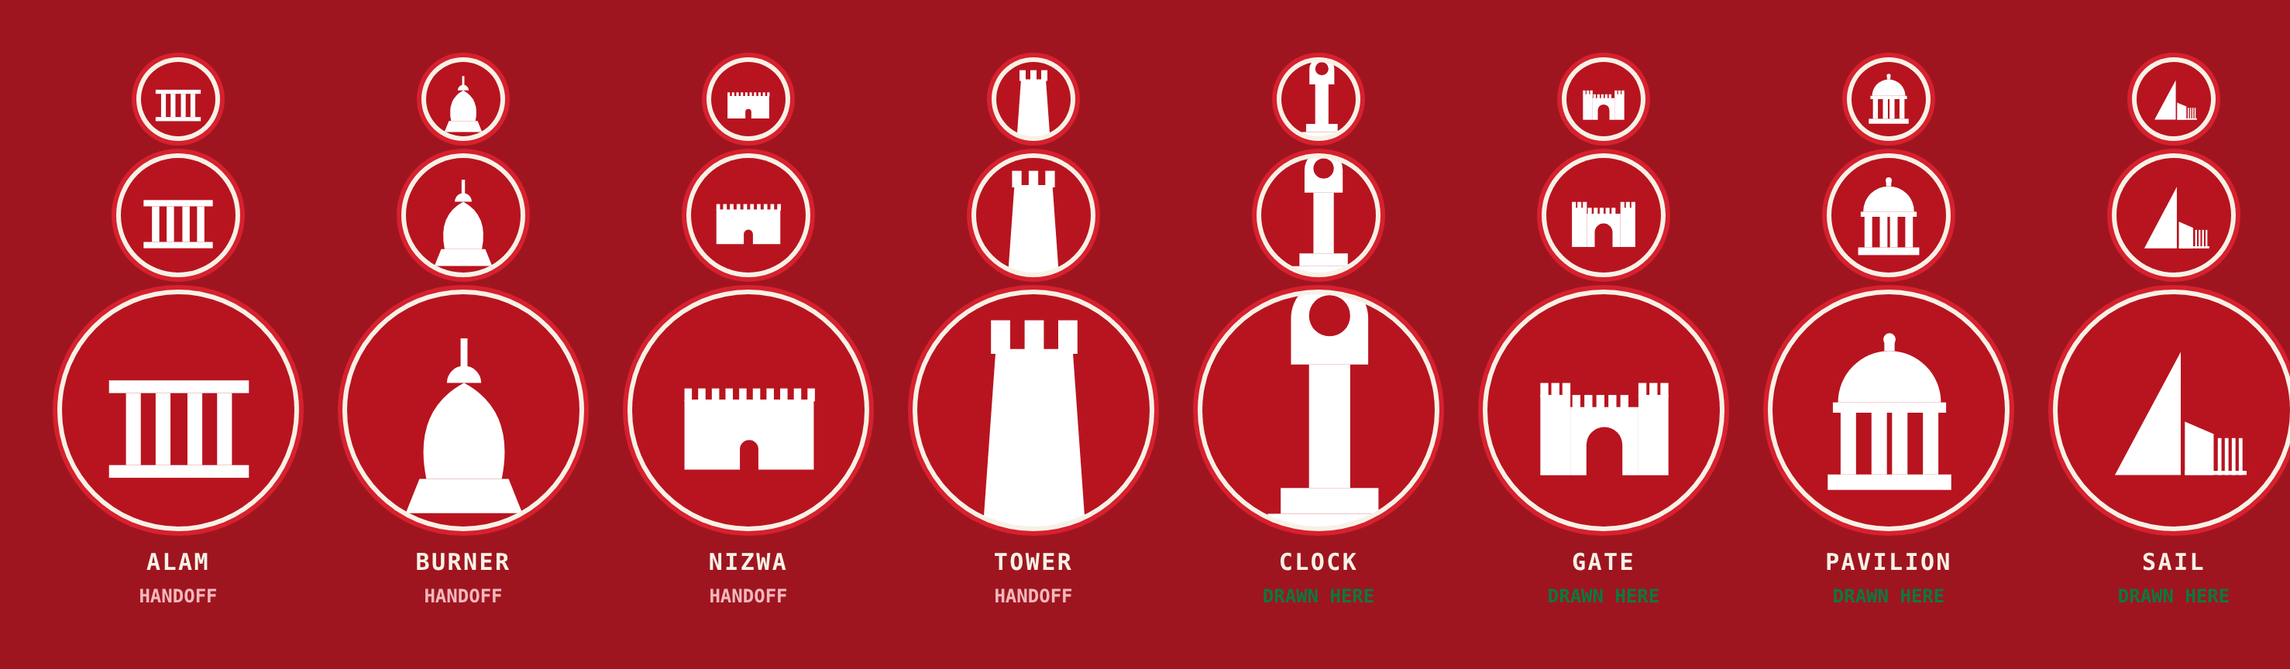
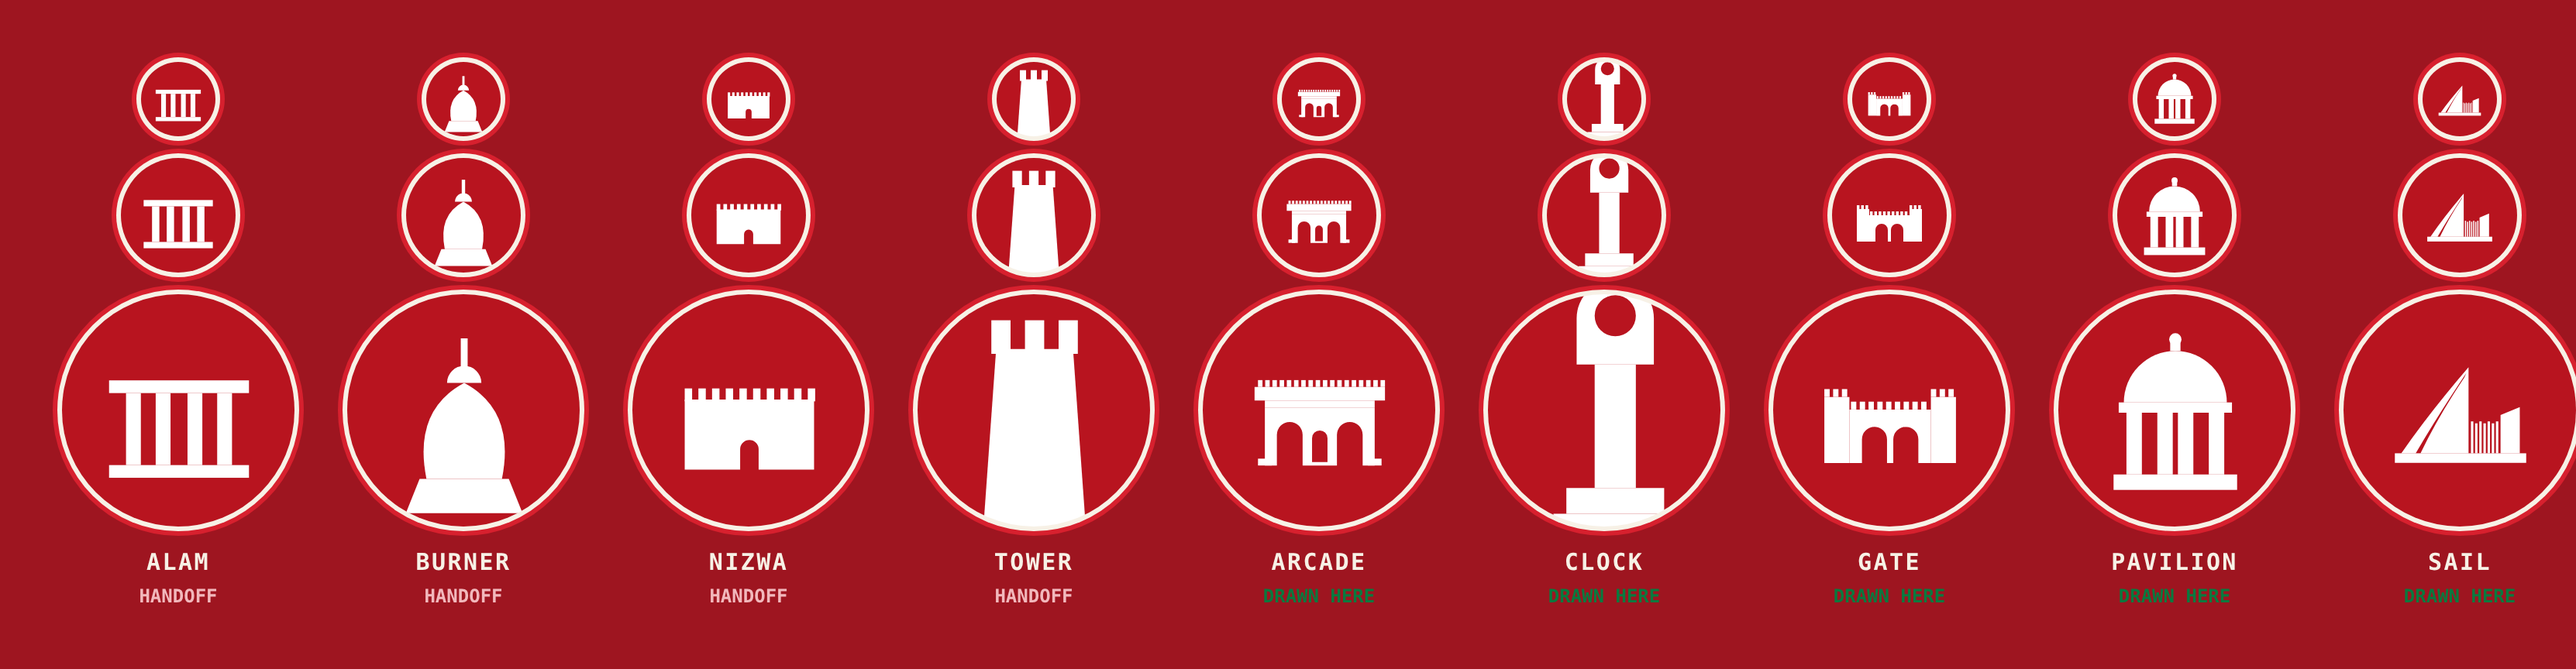
Redraw the fort and the museum sail, add the three-arch gateway
Closer to the forms in the reference sheet. The fort is now a crenellated
wall between two corner towers with twin arched gateways through it,
rather than the single-arch gateway it replaces; the three-arch gateway
with its deep dentilled cornice is new.

The sail was a plain triangle, which is the one thing that building is
not. It has a long concave leading edge sweeping up to the apex, a seam
down the face, a louvre block and an angled wing, all on a continuous
plinth. The seam is a cut-out for the same reason the clock face is: a
single-ink silhouette can only show an interior line as a hole.

The parapet is one helper now. The fort, the gateway and the towers all
carry the same crenellation, and three hand-placed runs is how two of
them end up a pixel out from the third.

Nine silhouettes through the proof sheet at 48, 74 and 150px. Nothing is
wired to use the five drawn here — which landmark goes on which night is
the owner's call, and swapping one is a line in national-season.json.

Claude-Session: https://claude.ai/code/session_01ApGxEQHux35SFcgLtzTmdN

diff --git a/ops/national_assets.py b/ops/national_assets.py
@@ -52,8 +52,9 @@ SVGS = {
     "mon-gate":     "mon-gate-white.svg",
     "mon-pavilion": "mon-pavilion-white.svg",
     "mon-sail":     "mon-sail-white.svg",
+    "mon-arcade":   "mon-arcade-white.svg",
 }
-OURS = {"mon-clock", "mon-gate", "mon-pavilion", "mon-sail"}
+OURS = {"mon-clock", "mon-gate", "mon-pavilion", "mon-sail", "mon-arcade"}
 PNGS = {"khanjar": "khanjar-tile-red.png"}
 
 # What a landmark is drawn in, by role. The handoff's medallion is a red disc

diff --git a/CLAUDE.md b/CLAUDE.md
@@ -1109,10 +1109,22 @@ and a sticker plan). Output in `brand/national/posts/`.
 #### The landmark silhouettes
 - The handoff's four (`mon-nizwa`, `mon-burner`, `mon-alam`, `mon-tower`) are
   its own placeholders, which it asks to have replaced in the same slots.
-- Four more are **drawn here** in `brand/national/silhouettes/` — clock tower,
-  gateway, pavilion and the sail-form museum — in the same idiom (flat fill, 60
-  units tall, 4 units of padding in the viewBox). They are original geometric
-  drawings. `ops/national_assets.py` serves both sets through one table.
+- Five more are **drawn here** in `brand/national/silhouettes/` — clock tower,
+  fort facade, three-arch gateway, pavilion and the sail-form museum — in the
+  same idiom (flat fill, 60 units tall, 4 units of padding in the viewBox).
+  They are original geometric drawings. `ops/national_assets.py` serves both
+  sets through one table.
+  - **Nothing uses them yet.** `landmarks` in `national-season.json` still
+    lists the handoff's four, because which landmark goes on which night is
+    the product owner's call. Swapping one is a line in that file.
+  - The crenellated parapet is **one helper**, not three hand-placed runs: the
+    fort, the gateway and the towers all carry the same one, and three copies
+    is how two of them end up a pixel out from the third.
+  - **The sail is not a triangle**, which is the one thing that building is
+    not — the first version drew it as one. Its leading edge is a long concave
+    sweep to the apex, with a seam down the face, a louvre block and an angled
+    wing on a continuous plinth. The seam is a cut-out, for the same reason the
+    clock face is.
 - **STOCK PREVIEWS AND THIRD-PARTY LOGOS CANNOT BE USED.** A watermarked
   VectorStock/Shutterstock comp is not licensed art, and an institution's own
   logo is not a landmark silhouette. Reference for *which* landmarks, yes;
